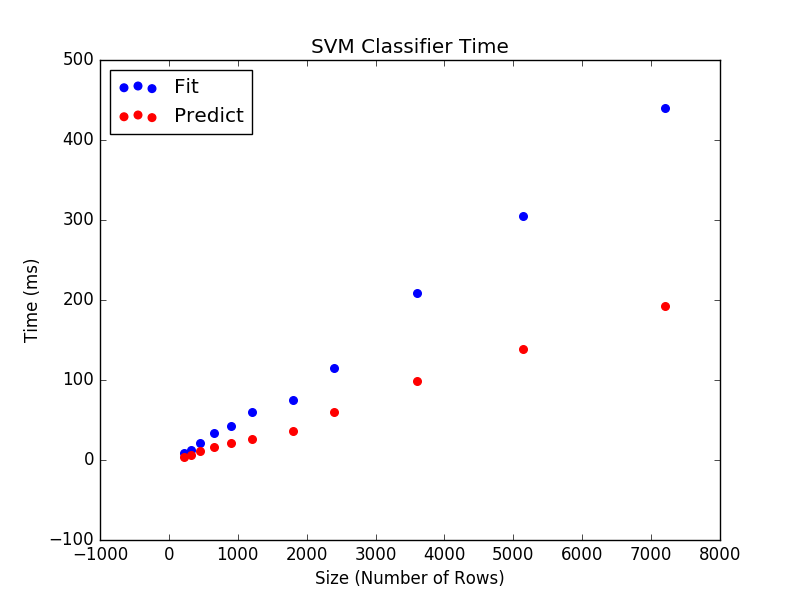
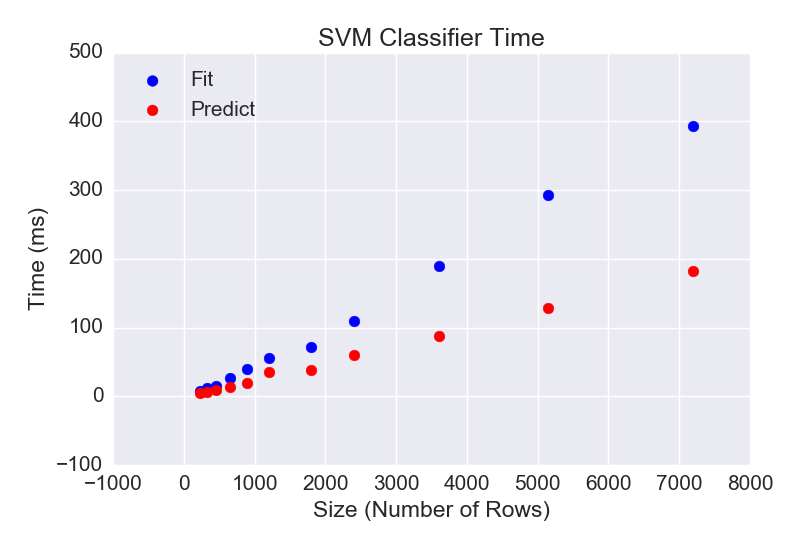
add seaborn

diff --git a/speed_test.py b/speed_test.py
@@ -4,6 +4,7 @@ import timeit
 import pandas as pd
 import numpy as np
 import matplotlib.pyplot as plt
+import seaborn as sns
 from sklearn import svm, cross_validation
 import os
 
@@ -25,6 +26,9 @@ def get_plotdir():
 
 def make_plotdir():
     "make plot directory on file system"
+    sns.set_style("darkgrid")
+#    sns.set_context("talk")
+    sns.set_context("notebook", font_scale=1.5)
     plotdir = get_plotdir()  # add plotdir arg
     if not os.access(plotdir, os.F_OK):
         os.mkdir(plotdir)
@@ -122,7 +126,7 @@ def time_fit_predict(clf, dfx, dfy, var='TF', num=10, rp=3):
     '''time fit and predict with classifier clf on training set dfx, dfy
        using num loops and rp repeats'''
 
-    print("time_fit_predict: var", var)    
+#    print("time_fit_predict: var", var)
     # dfy['TF'] has two states (0, 1)
     def fit_clf():
         do_fit(clf, dfx, dfy['TF'])
@@ -194,9 +198,10 @@ def time_fit_predict_array(clf, dftrain, dftrain_y, axis=0, fixed=4, arr=[16,8,4
     fits = []
     preds = []
     shapes = []
+    numc = num
     if axis==1:
         for col in arr:
-            numc = int(num * col / min(arr))    # num calc
+#            numc = int(num * col / min(arr))    # num calc
             # from timing, not linear, maybe quadratic, depends on clf
             tfit, tpred, shape = time_size_fit_predict(clf, dftrain, dftrain_y, rowf=fixed, colf=col, num=numc, var=var)
             fits.append(tfit)
@@ -204,7 +209,7 @@ def time_fit_predict_array(clf, dftrain, dftrain_y, axis=0, fixed=4, arr=[16,8,4
             shapes.append(shape)
     else:
         for row in arr:
-            numc = int(num * row / min(arr))    # num calc
+#            numc = int(num * row / min(arr))    # num calc
             tfit, tpred, shape = time_size_fit_predict(clf, dftrain, dftrain_y, rowf=row, colf=fixed, num=numc, var=var)
             fits.append(tfit)
             preds.append(tpred)
@@ -221,14 +226,16 @@ def print_time_results(result):
 def plot_time_results(result, app, label, plotdir):
     plt.clf()
     xs = [e[result['axis']] for e in result['shape']]
-    plt.scatter(xs, result['fit'], c="blue", s=30, edgecolors="face")
-    plt.scatter(xs, result['pred'], c="red", s=30, edgecolors="face")
+    plt.scatter(xs, result['fit'], s=60, c="blue", edgecolors="face")  # s=30
+    plt.scatter(xs, result['pred'], s=60, c="red", edgecolors="face")
 #    plt.ylim(0, ymax)  # how to find ymax
     plt.legend(['Fit', 'Predict'], loc='upper left')
     plt.title(app+" Classifier Time")
     axis = 'Columns' if result['axis']==1 else 'Rows'
     plt.xlabel("Size (Number of "+axis+")")
     plt.ylabel("Time (ms)")
+#    plt.figure(figsize=(8, 6))
+    plt.tight_layout()
     plt.savefig(plotdir + "time_" + label + ".png")
 
 def main():
@@ -280,7 +287,7 @@ def main():
     # fix plot limits
     # use test data for predict
     # add more classifiers
-    # try six-way classifier
+    # try six-way classifier (done, ~10 times slower at first glance)
     # fit results to linear, quadratic?  ignore short time pts, unreliable?
 
 if __name__ == '__main__':
